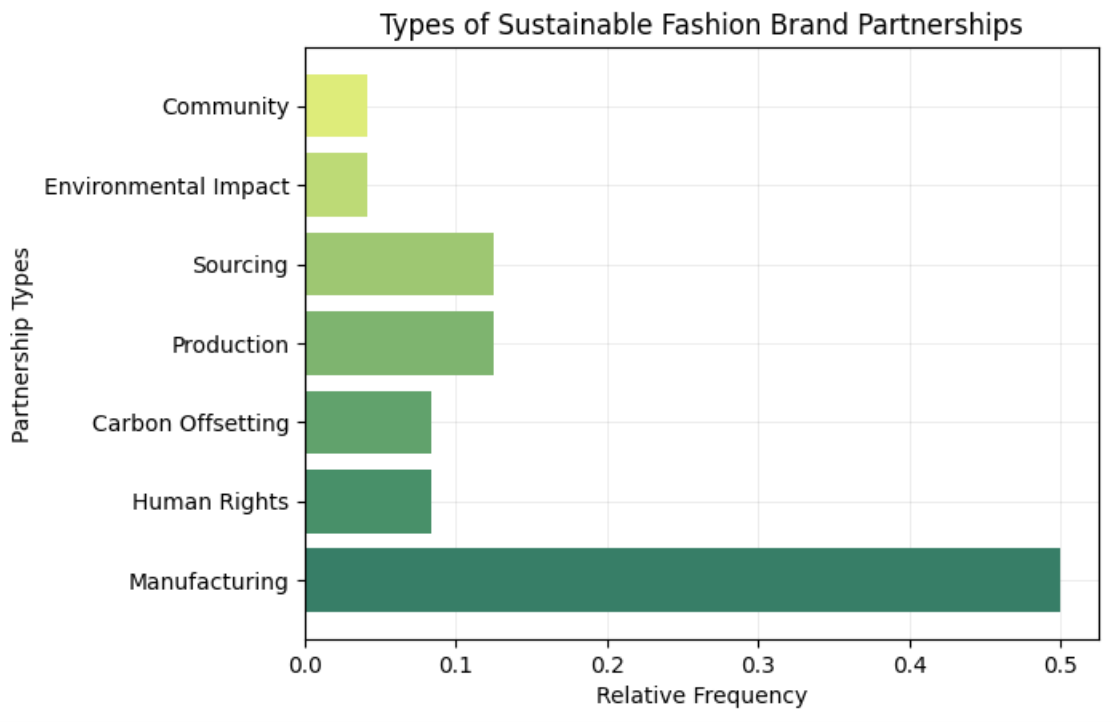
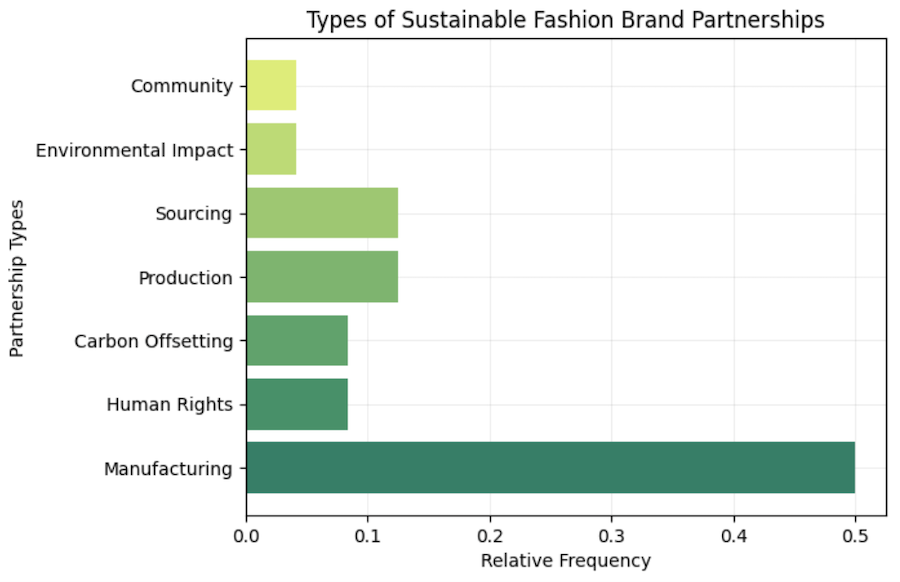
change partnership image sizes, fix text centering at the bottom

diff --git a/webpage.html b/webpage.html
@@ -288,6 +288,8 @@
           <img src="Charts/partnership_characteristics.png" alt="Relative Frequency of Partnership Characteristics.">
           <p class="image-caption">Image: Relative Frequency of Partnership Characteristics.</p>
         </div>
+      </div>
+    </div>
 
     <p>
       There are a range of characteristics that appear in sustainable brand partners, but they can be grouped into two broad categories: environmental and social impacts. 
